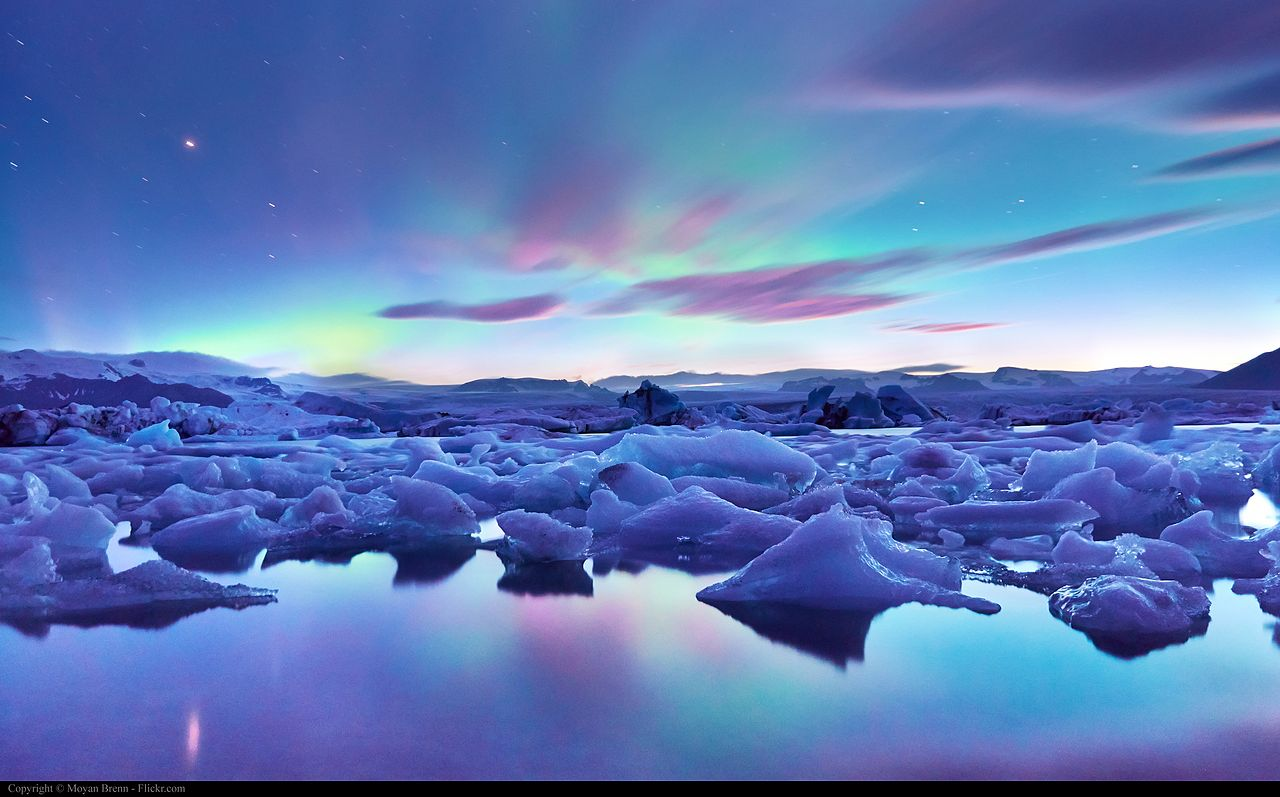
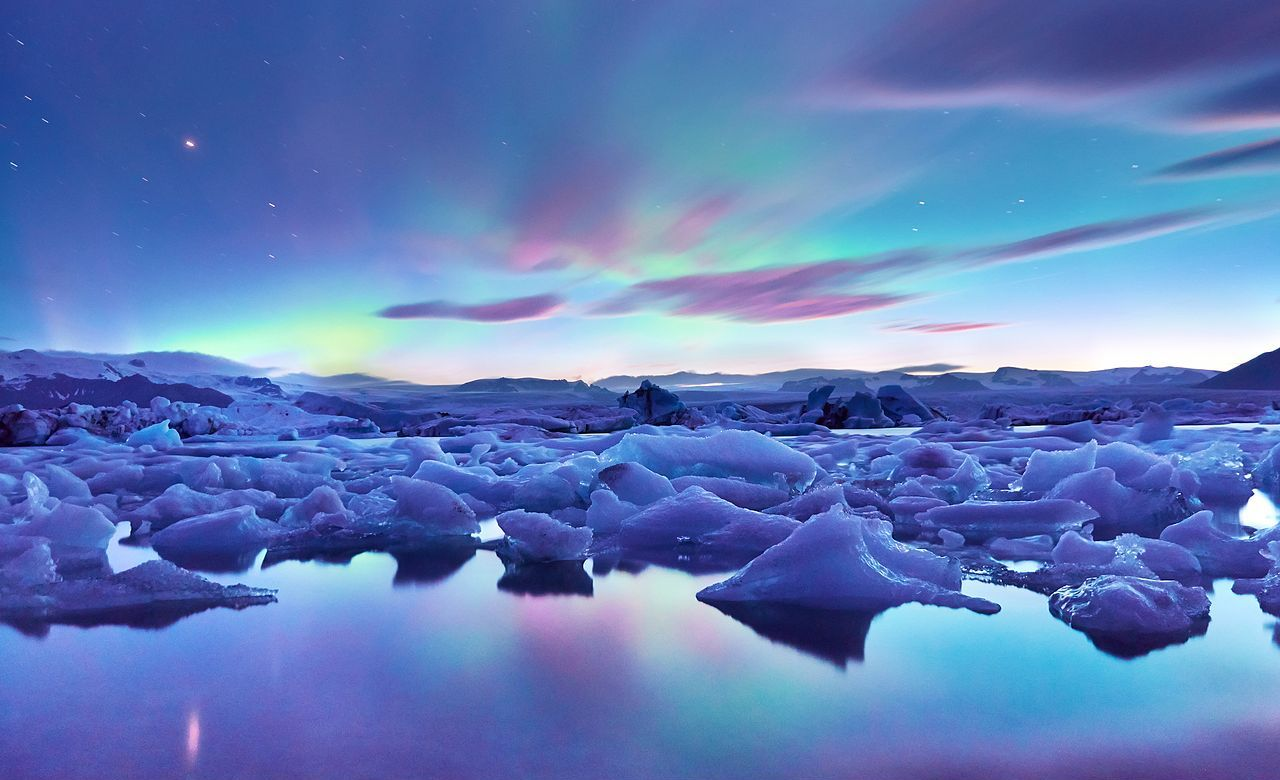
Improved home style

Changed region(s): [[0.0, 0.2769, 1.0, 0.8923], [0.0, 0.8923, 1.0, 1.0], [0.9062, 0.1231, 1.0, 0.2462]]

diff --git a/public/css/style.css b/public/css/style.css
@@ -64,8 +64,14 @@ body  {
 }
 
 .jumbotron.customizedBigIceland {
-    height: 500px;
-    background-image: url("../images/Iceland03.jpg");
+    height: 700px;
+    background-image: url("../images/Iceland01.jpg");
+}
+@media only screen and (max-width : 768px) {
+    .jumbotron.customizedBigIceland {
+        height: 780px !important;
+        background-image: url("../images/Iceland01.jpg");
+    }
 }
 .jumbotron.customizedBigColosseo {
     min-height: 450px;
@@ -137,6 +143,42 @@ div.weblinks {
     margin-right: 50px;
 }
 
+.homeConcept {
+    color: white !important;
+    border-radius: 6px;
+    padding-left: 20px;
+    padding-right: 20px;
+    padding-bottom: 10px;
+    padding-top: 30px;
+    text-align: left;
+    margin-top: 50px;
+    margin-bottom: 30px;
+}
+
+p.homeConceptText {
+    font-size: 17px !important;
+    font-family: monospace;
+}
+
+@media only screen and (max-width : 768px) {
+    .homeConcept {
+        color: white !important;
+        border-radius: 6px;
+        padding-left: 20px;
+        padding-right: 20px;
+        padding-bottom: 10px;
+        padding-top: 30px;
+        text-align: left;
+        margin-top: 20px;
+        margin-bottom: 30px;
+    }
+
+    p.homeConceptText {
+        font-size: 15px !important;
+        font-family: monospace;
+    }
+}
+
 .userdetails {
     background-color: rgba(255, 255, 255, 0.7);
     border-radius: 10px;
@@ -179,6 +221,10 @@ div.homePageList {
     margin-bottom: 20px;
 }
 
+.jssocials-share-link {
+    border-radius: 50%;
+}
+
 .backInBlack {
     background-color: black;
 }
@@ -192,7 +238,7 @@ div.homePageList {
     background-color: #778899;
 }
 .backInCustomLightBlue {
-    background-color: #337AB7
+    background-color: #337AB7;
 }
 
 span.projectListBtnHolder {
